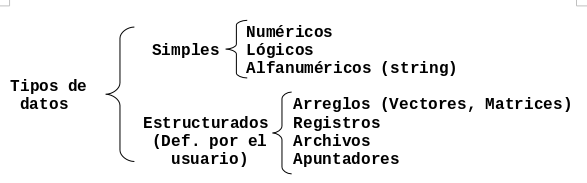
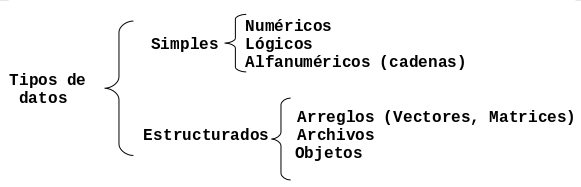
Primera actualizacion al capitulo de entidades primitivas.

diff --git a/docs/entidades-primitivas.md b/docs/entidades-primitivas.md
@@ -1,46 +1,52 @@
 # Entidades Primitivas
 
-En este capítulo se explican los elementos que permiten diseñar algoritmos, como
-son: los tipos de datos, las constantes, las variables y las expresiones.
+En este capítulo aprenderás sobre los elementos necesarios par diseñar
+algoritmos, como son:
+
+* los **tipos de datos**,
+* las **constantes**,
+* las **variables**
+* y las **expresiones**.
 
 ## Tipos de Datos
 
-Todos los datos en un algoritmo o programa tienen un tipo asociado con ellos. Un
-dato puede ser un simple carácter, tal como `b`, un valor entero tal como `35`.
-El tipo de dato determina la naturaleza del conjunto de valores que puede tomar.
-La siguiente Figura muestra la clasificación general de los tipos de datos de
-acuerdo a su complejidad.
+Todos los datos en un algoritmo o programa tienen un tipo asociado con ellos.
+Un dato puede ser un simple caracter, tal como `b`, o un valor entero tal como
+`35`.
+
+El tipo determina el **conjunto de valores que puede tomar un dato** y el
+**tipo de operaciones** que se le pueden aplicar. La siguiente Figura muestra
+la clasificación general de los tipos de datos de acuerdo a su complejidad.
 
 ![Tipos de datos](images/tipos-de-datos.png)
 
-Los tipos de datos estructurados se analizan en capítulos posteriores, este
-Capítulo se enfoca en describir los tipos de datos simples.
+Algunos tipos de datos estructurados se analizarán en capítulos posteriores,
+este Capítulo se enfoca en describir los tipos de datos simples.
 
 ### Tipos de Datos Simples
 
 A continuación se detalla el tipo de contenido que corresponde a los tipos de
 datos simples.
 
--   **Datos Numéricos**. Permiten representar valores escalares de forma
-    numérica, esto incluye a los números **enteros** y los **reales**. Con este
-    tipo de datos se pueden realizar las operaciones aritméticas comunes.
--   **Datos Alfanuméricos (String)**. Estos datos son una secuencia de
-    caracteres alfanuméricos que permiten representar valores identificables de
-    forma descriptiva, esto incluye nombres de personas, direcciones, etc. Es
-    posible representar números como alfanuméricos, pero éstos pierden sus
-    propiedades matemáticas, es decir, no es posible hacer operaciones
-    aritméticas con datos alfanuméricos. Este tipo de datos se representan
-    encerrados entre comillas. Por ejemplo: `"Instituto tecnológico de Puebla"`,
-    `"1997"`.
--   **Datos Lógicos**. Son aquellos que sólo pueden tener dos valores (cierto o
-    falso) ya que representan el resultado de una comparación entre otros datos
-    (numéricos o alfanuméricos).
+-   **Datos Numéricos**. Permiten representar valores de forma numérica, esto
+    incluye a los números **enteros** y los **reales**. Con este tipo de
+    datos se pueden realizar las **operaciones aritméticas comunes**.
+-   **Datos Alfanuméricos (Cadenas)**. Estos datos son una secuencia de
+    caracteres alfanuméricos, en otras palabras **texto**. Esto incluye
+    nombres de personas, direcciones, etc. Es posible representar números como
+    alfanuméricos, pero éstos pierden sus propiedades matemáticas, es decir, no
+    es posible hacer operaciones aritméticas con datos alfanuméricos. Este
+    tipo de datos se representan encerrados entre comillas. Por ejemplo:
+    `"Grupo de Usuarios PHP Puebla"`, `"1997"`.
+-   **Datos Lógicos**. Son aquellos que sólo pueden tener dos valores:
+    **cierto** o **falso** ya que representan el resultado de una
+    **comparación** entre otros datos (numéricos o alfanuméricos).
 
 ## Identificadores
 
 Los identificadores representan los datos de un programa. Un identificador es
-una **secuencia de caracteres que sirve para identificar una posición en la
-memoria de la computadora**, el cual nos permite accesar a su contenido.
+una **secuencia de caracteres que sirve para identificar un dato en la
+computadora**.
 
 Ejemplos: `nombre`, `numeroDeHoras`, `calificacion2`
 
@@ -53,8 +59,8 @@ son las siguientes:
 -   Deben comenzar con una letra (A a Z, mayúsculas o minúsculas) y no deben
     contener espacios en blanco.
 
--   Letras, dígitos y caracteres como el guión bajo (`_`) están permitidos
-    después del primer carácter.
+-   Letras, dígitos y el guión bajo (`_`) están permitidos después del primer
+    caracter.
 
 ## Constantes y Variables
 
@@ -85,21 +91,18 @@ Las variables son : `diametro` y `perimetro`, la constante es `PI`.
 
 ### Notación para Variables y Constantes
 
-Dentro de las buenas prácticas de programación encontramos la del nombrado
-estándar de variables y constantes. Existen varias "formas estándar" de nombrar
-variables y constantes, a las cuales se les conoce como notaciones. 
+Existen varias **formas estándar** de nombrar variables y constantes, a las
+cuales se les conoce como **notaciones**. 
 
 En estas notas se utiliza la notación `CamelCase`. La notación *Camel*
 consiste en escribir los identificadores con la primera letra de cada palabra en
 mayúsculas y el resto en minúsculas, por ejemplo: `EndOfFile`. Se le llama
 notación "Camel" porque los identificadores recuerdan las jorobas de un camello.
+
 Existen dos variantes de la notación:
 
 -   `UpperCamelCase`: en esta variante la primera letra también es mayúscula.
 -   `lowerCamelCase`: en esta variante la primera letra es minúscula.
-
-En este documento se opta por utilizar la notación **lowerCamelCase** para los
-identificadores de variables.
 
 En muchos lenguajes de programación, se tiene la costumbre de denotar las
 constantes mediante identificadores en mayúsculas. En este caso la notación
@@ -109,9 +112,9 @@ Camel no es aplicable y solo queda usar la notación **C**, por ejemplo:
 ### Clasificación de las Variables
 
 Las variables se clasifican por su contenido en: **numéricas**, **lógicas** y 
-**alfanuméricas** (string); y por su uso en: **variables de trabajo**,
-**contadores** y **acumuladores**. La siguiente Figura muestra gráficamente esta
-clasificación.
+**alfanuméricas** (cadenas); y por su uso en: **variables de trabajo**,
+**contadores** y **acumuladores**. La siguiente Figura muestra gráficamente
+esta clasificación.
 
 ![Tipos de variables](images/tipos-variables.png)
 
@@ -120,13 +123,13 @@ clasificación.
 -   **Variable Numéricas.** Son aquellas en las cuales se almacenan valores
     numéricos, positivos o negativos, es decir almacenan secuencias de dígitos
     (números del 0 al 9), signos (+ y -) y el punto decimal. Ejemplo: 
-    `iva = 0.15`, `salario = 3500.85`, `costo = 2500`.
+    `salario = 3500.85`, `costo = 2500`, `temperatura = -2`.
 -   **Variables Lógicas.** Son aquellas que sólo pueden tener dos valores:
-    verdadero o falso (V ó F), éstos representan el resultado de una comparación
-    entre otros datos (operación relacional).
--   **Variables Alfanuméricas.** Variables formadas por caracteres alfanuméricos
-    (letras, números y caracteres especiales). Por ejemplo: `letra = 'a'` 
-    `apellido = "López"`, `direccion = "Av. Libertad  #190"`.
+    verdadero o falso (`V` ó `F`), éstos representan el resultado de una
+    comparación entre otros datos (operación relacional).
+-   **Variables Alfanuméricas.** Variables formadas por caracteres
+    alfanuméricos (letras, números y caracteres especiales). Por ejemplo:
+    `letra = 'a'`, `apellido = "López"`, `direccion = "Av. Libertad  #190"`.
 
 #### Por su uso
 

diff --git a/docs/introduccion.md b/docs/introduccion.md
@@ -7,26 +7,26 @@ de codificación**.
 
 Este documento está organizado de la siguiente manera:
 
-* En el Capítulo [1](basicos.html) se describen los conceptos básicos
+* En el [Capítulo 1](basicos.html) se describen los conceptos básicos
 de programación y se explica brevemente una metodología para crear programas.
-* En el Capítulo [2](entidades-primitivas.html) se introduce el concepto
+* En el [Capítulo 2](entidades-primitivas.html) se introduce el concepto
 de algoritmo y las entidades primitivas con las que se forma, como son:
 operadores, variables y expresiones.
-* En el Capítulo [3](lenguajes-algoritmicos.html) se define el término
+* En el [Capítulo 3](lenguajes-algoritmicos.html) se define el término
 lenguaje algorítmico usando dos ejemplos: el diagrama de flujo y el pseudocódigo.
-* En el Capítulo [4](programacion-estructurada.html) se describe de manera
+* En el [Capítulo 4](programacion-estructurada.html) se describe de manera
 breve los distintos paradigmas de programación y su evolución histórica,
 resaltando la programación estructurada.
-* En el Capítulo [5](estructuras-secuenciales.html) se explican tres
+* En el [Capítulo 5](estructuras-secuenciales.html) se explican tres
 tipos de estructuras secuenciales: la asignación, y la entrada y salida estándar
 de datos.
-* En el Capítulo [6](lenguaje-c.html) se introduce el lenguaje de
+* En el [Capítulo 6](lenguaje-c.html) se introduce el lenguaje de
 programación C, así como al estilo de programación que se sigue en estas notas.
-* El Capítulo [7](estructuras-condicionales.html) explica tres tipos de
+* El [Capítulo 7](estructuras-condicionales.html) explica tres tipos de
 estructura condicionales: la simple, la múltiple  y la de selección.
-* El Capítulo [8](estructuras-ciclicas.html) explica tres tipos de
+* El [Capítulo 8](estructuras-ciclicas.html) explica tres tipos de
 estructuras cíclicas: el ciclo `for`, el ciclo `while` y el ciclo `do-while`.
-* El Capítulo [9](arreglos.html) trata de los tipos de arreglos más
+* El [Capítulo 9](arreglos.html) trata de los tipos de arreglos más
 comunes el vector y la matriz.
-* Por último el Capítulo [10](subprogramas.html) introduce el concepto de
+* Por último el [Capítulo 10](subprogramas.html) introduce el concepto de
 subprograma.
